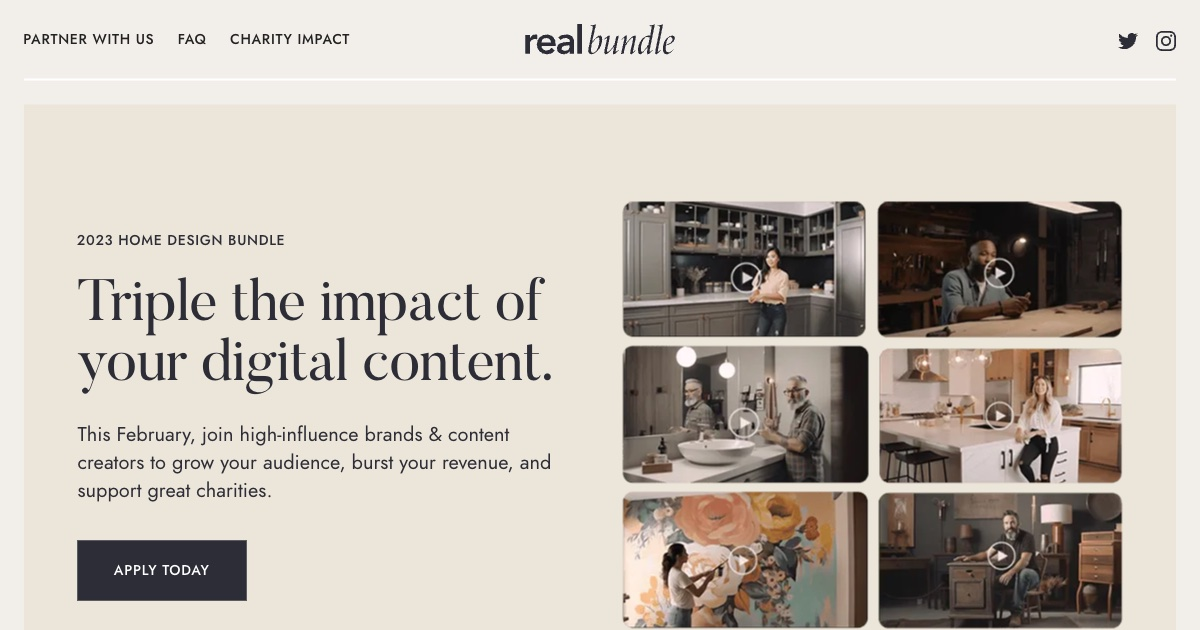
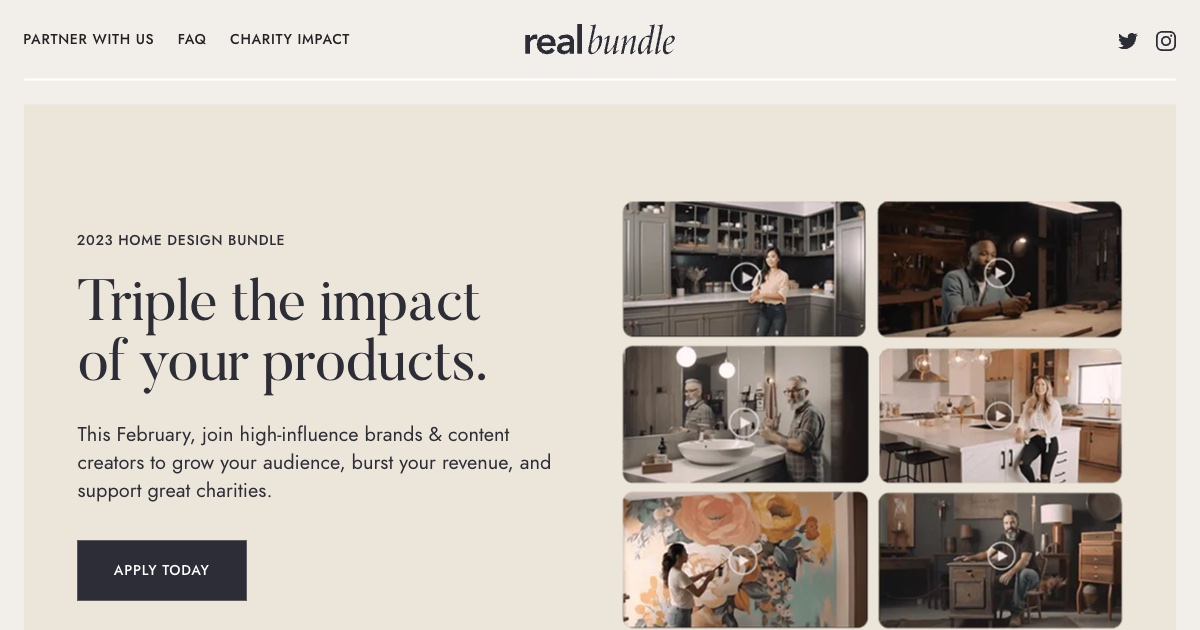
Update hero headline to "Triple the impact of your products"
Balanced the headline across two lines and regenerated the OpenGraph
image to match the new hero.

Changed region(s): [[0.0617, 0.5429, 0.4625, 0.6333], [0.4008, 0.4222, 0.4625, 0.5127]]

diff --git a/index.html b/index.html
@@ -3,4 +3,4 @@ body {
     -moz-osx-font-smoothing: grayscale;
     -webkit-font-smoothing: antialiased;
 }
-</style></head><body><div id="Top" class="back-to-top-container"><div class="back-to-top-button-wrapper"><a href="#Top" class="button-round w-inline-block"><img src="/assets/64475dc938d5f0e74bdb7168_arrow-up.svg" alt=""/></a></div></div><div class="navbar-wrapper sticky-top"><div class="container"><div data-collapse="medium" data-animation="default" data-duration="400" data-easing="ease" data-easing2="ease" role="banner" class="navbar border-bottom w-nav"><div class="navbar-thirds-grid"><nav role="navigation" class="nav-menu w-nav-menu"><a href="/apply" class="nav-link w-nav-link">Partner with Us</a><a href="/faqs" class="nav-link w-nav-link">FAQ</a><a href="/charity" class="nav-link w-nav-link">Charity Impact</a><div data-delay="0" data-hover="false" class="nav-dropdown display-none w-dropdown"><div class="dropdown-toggle nav-link w-dropdown-toggle"><div class="dropdown-toggle-row"><div>Pages</div><img src="/assets/64475dc938d5f07c66db7192_caret-down.svg" alt="" class="dropdown-icon"/></div></div><nav class="dropdown-list w-dropdown-list"><a href="/company/about" class="dropdown-item w-dropdown-link">About</a><a href="/charity" class="dropdown-item w-dropdown-link">Services</a><a href="/company/pricing" class="dropdown-item w-dropdown-link">Pricing</a><a href="/company/contact" class="dropdown-item w-dropdown-link">Contact</a><a href="/apply" class="dropdown-item w-dropdown-link">Plan Consultation</a><a href="/blog/blog-1" class="dropdown-item w-dropdown-link">Blog</a><a href="/portfolio/case-studies-1" class="dropdown-item w-dropdown-link">Case Studies</a></nav></div><div data-delay="0" data-hover="false" class="nav-dropdown display-none w-dropdown"><div class="dropdown-toggle nav-link w-dropdown-toggle"><div class="dropdown-toggle-row"><div>Template</div><img src="/assets/64475dc938d5f07c66db7192_caret-down.svg" alt="" class="dropdown-icon"/></div></div><nav class="dropdown-list w-dropdown-list"><a href="/template/getting-started" class="dropdown-item w-dropdown-link">Getting Started</a><a href="/template/style-guide" class="dropdown-item w-dropdown-link">Style Guide</a><a href="/template/navs-footers" class="dropdown-item w-dropdown-link">Navs &amp; Footers</a><a href="/template/licensing" class="dropdown-item w-dropdown-link">Licenses</a><a href="/faqs" class="dropdown-item w-dropdown-link">Changelog</a></nav></div></nav><div id="w-node-_66ec33ac-e1ac-955e-6d55-f4bd4f147026-4f147003" class="navbar-centered-logo-wrapper"><a href="/" aria-current="page" class="w-nav-brand w--current"><img src="/assets/64509143557fdc934f8cf1b3_blue-rb-logo.svg" width="150" alt=""/></a></div><div id="w-node-_66ec33ac-e1ac-955e-6d55-f4bd4f147029-4f147003" class="navbar-centered-logo-right"><div class="social-list nav-social-list"><a href="https://twitter.com/realbundle" target="_blank" class="social-list-link w-inline-block"><img src="/assets/64475dc938d5f047d2db7134_twitter.svg" alt="" class="navbar-social-icon"/></a><a href="https://www.instagram.com/realbundle" target="_blank" class="social-list-link w-inline-block"><img src="/assets/64475dc938d5f07a61db7121_instagram.svg" alt="" class="navbar-social-icon"/></a><a href="https://linkedin.com/" class="social-list-link display-none w-inline-block"><img src="/assets/64475dc938d5f0621adb7123_linkedin.svg" alt="" class="navbar-social-icon"/></a></div><div class="menu-button w-nav-button"><img src="/assets/64475dc938d5f044a2db714d_menu.svg" alt=""/></div></div></div></div></div></div><div class="section top-space-small"><div class="container"><div class="w-layout-grid grid-vertical"><div class="section bg-gray-3"><div class="container"><div class="hero-row"><div class="content-width-medium"><h6 class="text-uppercase subheading">2023 Home Design Bundle</h6><h1 class="display-heading">Triple the impact of your digital content.</h1><div class="text-large">This February, join high-influence brands &amp; content creators to grow your audience, burst your revenue, and support great charities.</div><div class="space-top"><a href="/apply" class="button button-large w-button">Apply Today</a></div></div><img src="/assets/64512ff5d4e5b619316f39e0_VideoGrid-min.webp" alt="" class="row-image-right"/></div></div></div><div class="section bg-primary-4"><div class="container"><div class="w-layout-grid icon-grid-thirds"><div class="center-content content-width-extra-small"><img src="/assets/644d5ff3a698ca65f9066c03_icons8-focus-64.png" alt="" class="space-bottom"/><h5>Partner - Centric</h5><div>We prioritize for max revenue &amp; impact of our partner brands &amp; creators.</div></div><div class="center-content content-width-extra-small"><img src="/assets/644d60efbe08782f882c799b_icons8-event-64.png" alt="" class="space-bottom"/><h5>Curated Events</h5><div>Teaming up with prominent influencers to deliver the best content to consumers.</div></div><div class="center-content content-width-extra-small"><img src="/assets/644d6184a0c4b199ee20e108_icons8-brainstorm-skill-64.png" alt="" class="space-bottom"/><h5>Led by Industry Experts</h5><div>Our team has extensive history in real estate, eCommerce, and digital content.</div></div></div></div></div><div class="section bg-gray-3"><div class="container"><div class="hero-row"><img src="/assets/644d5c0588dce14bd5775de7_ContentCreatorInProcess.webp" sizes="(max-width: 479px) 100vw, (max-width: 714px) 84vw, 600px" srcset="/assets/644d5c0588dce14bd5775de7_ContentCreatorInProcess-p-500.webp 500w, /assets/644d5c0588dce14bd5775de7_ContentCreatorInProcess.webp 600w" loading="lazy" alt="" class="row-image-left rounded"/><div class="content-width-small"><h6 class="text-uppercase subheading">Why Partner with us</h6><h3 class="large-heading">Real benefit for you and for others.</h3><div class="space-top"><ul role="list" class="square-bullets-list"><li class="bordered-list-item"><div>Unlock new revenue with our proven sale events</div></li><li class="bordered-list-item"><div>Leverage your existing courses &amp; content</div></li><li class="bordered-list-item"><div>Inspire countless home &amp; design transformations</div></li><li><div class="text-block">Generate significant charity contributions</div></li></ul></div></div></div></div></div><div class="section bg-gray-1"><div class="container"><div class="center-content"><div class="content-width-extra-large"><img src="/assets/64475dc938d5f00827db71ad_quote-image-white.svg" alt="" class="space-bottom"/><h3 class="medium-heading">After seven years in the industry, our team&#x27;s excitement and passion have never been greater than for our 2023 Home Design Bundle event.</h3><img src="/assets/64503557044eaf82b788a307_headshot-daniel-small-min.webp" loading="lazy" alt="" class="avatar space-bottom"/><div>Daniel Dixon • RealBundle Founder</div></div></div></div></div><div class="section bg-gray-3"><div class="container"><div class="hero-row"><div class="content-width-small"><h6 class="text-uppercase subheading">Just Curious?</h6><h3 class="large-heading">Follow our launch &amp; get exclusive access</h3><div class="space-top"><div class="form-block space-top w-form"><form action="https://getform.io/f/83a3cb9a-e0a1-4627-aeab-6b75b9e39b77" data-name="Landing Page Subscribe Form" method="post" class="form-grid-vertical text-left" data-wf-page-id="64475dc938d5f0825adb70d9" data-wf-element-id="1416b91b-b036-0f61-578d-dd2f7ce54822"><input type="text" class="form-input form-input-large w-input" maxlength="256" name="name" data-name="Name" placeholder="Your Name" id="name"/><input type="email" class="form-input form-input-large w-input" maxlength="256" name="email" data-name="Email" placeholder="Email Address" id="email" required=""/><input type="submit" value="Join Our Newsletter" data-wait="Please wait..." class="button button-large w-button"/><div class="form-input-hint-text no-top-space">* Your info is never sold. We just want to keep you updated.</div></form><div class="form-success w-form-done"><div>Thank you! Your submission has been received!</div></div><div class="form-error w-form-fail"><div>Oops! Something went wrong while submitting the form.</div></div></div></div></div><img src="/assets/64503db8e3e5d95323ff4ac6_newsletter_cta.webp" sizes="(max-width: 479px) 100vw, (max-width: 714px) 84vw, 600px" srcset="/assets/64503db8e3e5d95323ff4ac6_newsletter_cta-p-500.webp 500w, /assets/64503db8e3e5d95323ff4ac6_newsletter_cta.webp 600w" loading="lazy" alt="" class="row-image-right rounded"/></div></div></div><div class="section bg-primary-4 cta-section"><div class="container"><div class="center-content"><div class="centered-cta"><h3 class="medium-heading">Support impactful charities. <br/>Amplify your influence. <br/>Unlock new revenue.</h3><div class="space-top"><a href="/apply" class="button button-large w-button">Apply to Partner</a></div></div></div></div><img src="/assets/64475dc938d5f02622db7195_scribble-1.svg" loading="lazy" alt="" class="centered-cta-scribble"/></div></div></div></div><div class="footer-1 bg-gray-1"><div class="container center-content"><div class="center-content content-width-small"><a href="/" aria-current="page" class="footer-logo w-inline-block w--current"><img src="/assets/64509096557fdcde3a8ce281_white-rb-logo.svg" loading="lazy" width="220" alt=""/></a><p class="text-large">Collective wisdom of all things real estate, curated for everyone.</p><div class="social-list"><a href="https://twitter.com/realbundle" target="_blank" class="social-list-link w-inline-block"><img src="/assets/64475dc938d5f076e9db7117_twitter.svg" alt=""/></a><a href="https://instagram.com/realbundle" target="_blank" class="social-list-link w-inline-block"><img src="/assets/64475dc938d5f024e0db7111_instagram.svg" alt=""/></a><a href="https://linkedin.com/" class="social-list-link display-none w-inline-block"><img src="/assets/64475dc938d5f005efdb711b_linkedin.svg" alt=""/></a></div></div><div class="footer-1-menu"><div class="footer-1-link-row text-uppercase"><a href="/apply" class="footer-1-link-item link-white">Apply Today</a><a href="/faqs" class="footer-1-link-item link-white">Common Questions</a><a href="/charity" class="footer-1-link-item link-white">Charity Impact</a><a href="/faqs" class="footer-1-link-item link-white display-none">changelog</a></div></div><div class="footer-1-bottom-row"><div class="text-small text-muted">© Copyright 2026 • Oak Ellum LLC d.b.a. RealBundle<a href="https://icons8.com/" target="_blank" class="link-white"></a><a href="https://webflow.com/" class="link-white"></a></div></div></div></div><script src="https://d3e54v103j8qbb.cloudfront.net/js/jquery-3.5.1.min.dc5e7f18c8.js?site=64475dc938d5f0a9a3db70a4" type="text/javascript" integrity="sha256-9/aliU8dGd2tb6OSsuzixeV4y/faTqgFtohetphbbj0=" crossorigin="anonymous"></script><script src="/assets/js/webflow.cd68505ea.js" type="text/javascript"></script></body></html>
+</style></head><body><div id="Top" class="back-to-top-container"><div class="back-to-top-button-wrapper"><a href="#Top" class="button-round w-inline-block"><img src="/assets/64475dc938d5f0e74bdb7168_arrow-up.svg" alt=""/></a></div></div><div class="navbar-wrapper sticky-top"><div class="container"><div data-collapse="medium" data-animation="default" data-duration="400" data-easing="ease" data-easing2="ease" role="banner" class="navbar border-bottom w-nav"><div class="navbar-thirds-grid"><nav role="navigation" class="nav-menu w-nav-menu"><a href="/apply" class="nav-link w-nav-link">Partner with Us</a><a href="/faqs" class="nav-link w-nav-link">FAQ</a><a href="/charity" class="nav-link w-nav-link">Charity Impact</a><div data-delay="0" data-hover="false" class="nav-dropdown display-none w-dropdown"><div class="dropdown-toggle nav-link w-dropdown-toggle"><div class="dropdown-toggle-row"><div>Pages</div><img src="/assets/64475dc938d5f07c66db7192_caret-down.svg" alt="" class="dropdown-icon"/></div></div><nav class="dropdown-list w-dropdown-list"><a href="/company/about" class="dropdown-item w-dropdown-link">About</a><a href="/charity" class="dropdown-item w-dropdown-link">Services</a><a href="/company/pricing" class="dropdown-item w-dropdown-link">Pricing</a><a href="/company/contact" class="dropdown-item w-dropdown-link">Contact</a><a href="/apply" class="dropdown-item w-dropdown-link">Plan Consultation</a><a href="/blog/blog-1" class="dropdown-item w-dropdown-link">Blog</a><a href="/portfolio/case-studies-1" class="dropdown-item w-dropdown-link">Case Studies</a></nav></div><div data-delay="0" data-hover="false" class="nav-dropdown display-none w-dropdown"><div class="dropdown-toggle nav-link w-dropdown-toggle"><div class="dropdown-toggle-row"><div>Template</div><img src="/assets/64475dc938d5f07c66db7192_caret-down.svg" alt="" class="dropdown-icon"/></div></div><nav class="dropdown-list w-dropdown-list"><a href="/template/getting-started" class="dropdown-item w-dropdown-link">Getting Started</a><a href="/template/style-guide" class="dropdown-item w-dropdown-link">Style Guide</a><a href="/template/navs-footers" class="dropdown-item w-dropdown-link">Navs &amp; Footers</a><a href="/template/licensing" class="dropdown-item w-dropdown-link">Licenses</a><a href="/faqs" class="dropdown-item w-dropdown-link">Changelog</a></nav></div></nav><div id="w-node-_66ec33ac-e1ac-955e-6d55-f4bd4f147026-4f147003" class="navbar-centered-logo-wrapper"><a href="/" aria-current="page" class="w-nav-brand w--current"><img src="/assets/64509143557fdc934f8cf1b3_blue-rb-logo.svg" width="150" alt=""/></a></div><div id="w-node-_66ec33ac-e1ac-955e-6d55-f4bd4f147029-4f147003" class="navbar-centered-logo-right"><div class="social-list nav-social-list"><a href="https://twitter.com/realbundle" target="_blank" class="social-list-link w-inline-block"><img src="/assets/64475dc938d5f047d2db7134_twitter.svg" alt="" class="navbar-social-icon"/></a><a href="https://www.instagram.com/realbundle" target="_blank" class="social-list-link w-inline-block"><img src="/assets/64475dc938d5f07a61db7121_instagram.svg" alt="" class="navbar-social-icon"/></a><a href="https://linkedin.com/" class="social-list-link display-none w-inline-block"><img src="/assets/64475dc938d5f0621adb7123_linkedin.svg" alt="" class="navbar-social-icon"/></a></div><div class="menu-button w-nav-button"><img src="/assets/64475dc938d5f044a2db714d_menu.svg" alt=""/></div></div></div></div></div></div><div class="section top-space-small"><div class="container"><div class="w-layout-grid grid-vertical"><div class="section bg-gray-3"><div class="container"><div class="hero-row"><div class="content-width-medium"><h6 class="text-uppercase subheading">2023 Home Design Bundle</h6><h1 class="display-heading">Triple the impact<br/>of your products.</h1><div class="text-large">This February, join high-influence brands &amp; content creators to grow your audience, burst your revenue, and support great charities.</div><div class="space-top"><a href="/apply" class="button button-large w-button">Apply Today</a></div></div><img src="/assets/64512ff5d4e5b619316f39e0_VideoGrid-min.webp" alt="" class="row-image-right"/></div></div></div><div class="section bg-primary-4"><div class="container"><div class="w-layout-grid icon-grid-thirds"><div class="center-content content-width-extra-small"><img src="/assets/644d5ff3a698ca65f9066c03_icons8-focus-64.png" alt="" class="space-bottom"/><h5>Partner - Centric</h5><div>We prioritize for max revenue &amp; impact of our partner brands &amp; creators.</div></div><div class="center-content content-width-extra-small"><img src="/assets/644d60efbe08782f882c799b_icons8-event-64.png" alt="" class="space-bottom"/><h5>Curated Events</h5><div>Teaming up with prominent influencers to deliver the best content to consumers.</div></div><div class="center-content content-width-extra-small"><img src="/assets/644d6184a0c4b199ee20e108_icons8-brainstorm-skill-64.png" alt="" class="space-bottom"/><h5>Led by Industry Experts</h5><div>Our team has extensive history in real estate, eCommerce, and digital content.</div></div></div></div></div><div class="section bg-gray-3"><div class="container"><div class="hero-row"><img src="/assets/644d5c0588dce14bd5775de7_ContentCreatorInProcess.webp" sizes="(max-width: 479px) 100vw, (max-width: 714px) 84vw, 600px" srcset="/assets/644d5c0588dce14bd5775de7_ContentCreatorInProcess-p-500.webp 500w, /assets/644d5c0588dce14bd5775de7_ContentCreatorInProcess.webp 600w" loading="lazy" alt="" class="row-image-left rounded"/><div class="content-width-small"><h6 class="text-uppercase subheading">Why Partner with us</h6><h3 class="large-heading">Real benefit for you and for others.</h3><div class="space-top"><ul role="list" class="square-bullets-list"><li class="bordered-list-item"><div>Unlock new revenue with our proven sale events</div></li><li class="bordered-list-item"><div>Leverage your existing courses &amp; content</div></li><li class="bordered-list-item"><div>Inspire countless home &amp; design transformations</div></li><li><div class="text-block">Generate significant charity contributions</div></li></ul></div></div></div></div></div><div class="section bg-gray-1"><div class="container"><div class="center-content"><div class="content-width-extra-large"><img src="/assets/64475dc938d5f00827db71ad_quote-image-white.svg" alt="" class="space-bottom"/><h3 class="medium-heading">After seven years in the industry, our team&#x27;s excitement and passion have never been greater than for our 2023 Home Design Bundle event.</h3><img src="/assets/64503557044eaf82b788a307_headshot-daniel-small-min.webp" loading="lazy" alt="" class="avatar space-bottom"/><div>Daniel Dixon • RealBundle Founder</div></div></div></div></div><div class="section bg-gray-3"><div class="container"><div class="hero-row"><div class="content-width-small"><h6 class="text-uppercase subheading">Just Curious?</h6><h3 class="large-heading">Follow our launch &amp; get exclusive access</h3><div class="space-top"><div class="form-block space-top w-form"><form action="https://getform.io/f/83a3cb9a-e0a1-4627-aeab-6b75b9e39b77" data-name="Landing Page Subscribe Form" method="post" class="form-grid-vertical text-left" data-wf-page-id="64475dc938d5f0825adb70d9" data-wf-element-id="1416b91b-b036-0f61-578d-dd2f7ce54822"><input type="text" class="form-input form-input-large w-input" maxlength="256" name="name" data-name="Name" placeholder="Your Name" id="name"/><input type="email" class="form-input form-input-large w-input" maxlength="256" name="email" data-name="Email" placeholder="Email Address" id="email" required=""/><input type="submit" value="Join Our Newsletter" data-wait="Please wait..." class="button button-large w-button"/><div class="form-input-hint-text no-top-space">* Your info is never sold. We just want to keep you updated.</div></form><div class="form-success w-form-done"><div>Thank you! Your submission has been received!</div></div><div class="form-error w-form-fail"><div>Oops! Something went wrong while submitting the form.</div></div></div></div></div><img src="/assets/64503db8e3e5d95323ff4ac6_newsletter_cta.webp" sizes="(max-width: 479px) 100vw, (max-width: 714px) 84vw, 600px" srcset="/assets/64503db8e3e5d95323ff4ac6_newsletter_cta-p-500.webp 500w, /assets/64503db8e3e5d95323ff4ac6_newsletter_cta.webp 600w" loading="lazy" alt="" class="row-image-right rounded"/></div></div></div><div class="section bg-primary-4 cta-section"><div class="container"><div class="center-content"><div class="centered-cta"><h3 class="medium-heading">Support impactful charities. <br/>Amplify your influence. <br/>Unlock new revenue.</h3><div class="space-top"><a href="/apply" class="button button-large w-button">Apply to Partner</a></div></div></div></div><img src="/assets/64475dc938d5f02622db7195_scribble-1.svg" loading="lazy" alt="" class="centered-cta-scribble"/></div></div></div></div><div class="footer-1 bg-gray-1"><div class="container center-content"><div class="center-content content-width-small"><a href="/" aria-current="page" class="footer-logo w-inline-block w--current"><img src="/assets/64509096557fdcde3a8ce281_white-rb-logo.svg" loading="lazy" width="220" alt=""/></a><p class="text-large">Collective wisdom of all things real estate, curated for everyone.</p><div class="social-list"><a href="https://twitter.com/realbundle" target="_blank" class="social-list-link w-inline-block"><img src="/assets/64475dc938d5f076e9db7117_twitter.svg" alt=""/></a><a href="https://instagram.com/realbundle" target="_blank" class="social-list-link w-inline-block"><img src="/assets/64475dc938d5f024e0db7111_instagram.svg" alt=""/></a><a href="https://linkedin.com/" class="social-list-link display-none w-inline-block"><img src="/assets/64475dc938d5f005efdb711b_linkedin.svg" alt=""/></a></div></div><div class="footer-1-menu"><div class="footer-1-link-row text-uppercase"><a href="/apply" class="footer-1-link-item link-white">Apply Today</a><a href="/faqs" class="footer-1-link-item link-white">Common Questions</a><a href="/charity" class="footer-1-link-item link-white">Charity Impact</a><a href="/faqs" class="footer-1-link-item link-white display-none">changelog</a></div></div><div class="footer-1-bottom-row"><div class="text-small text-muted">© Copyright 2026 • Oak Ellum LLC d.b.a. RealBundle<a href="https://icons8.com/" target="_blank" class="link-white"></a><a href="https://webflow.com/" class="link-white"></a></div></div></div></div><script src="https://d3e54v103j8qbb.cloudfront.net/js/jquery-3.5.1.min.dc5e7f18c8.js?site=64475dc938d5f0a9a3db70a4" type="text/javascript" integrity="sha256-9/aliU8dGd2tb6OSsuzixeV4y/faTqgFtohetphbbj0=" crossorigin="anonymous"></script><script src="/assets/js/webflow.cd68505ea.js" type="text/javascript"></script></body></html>